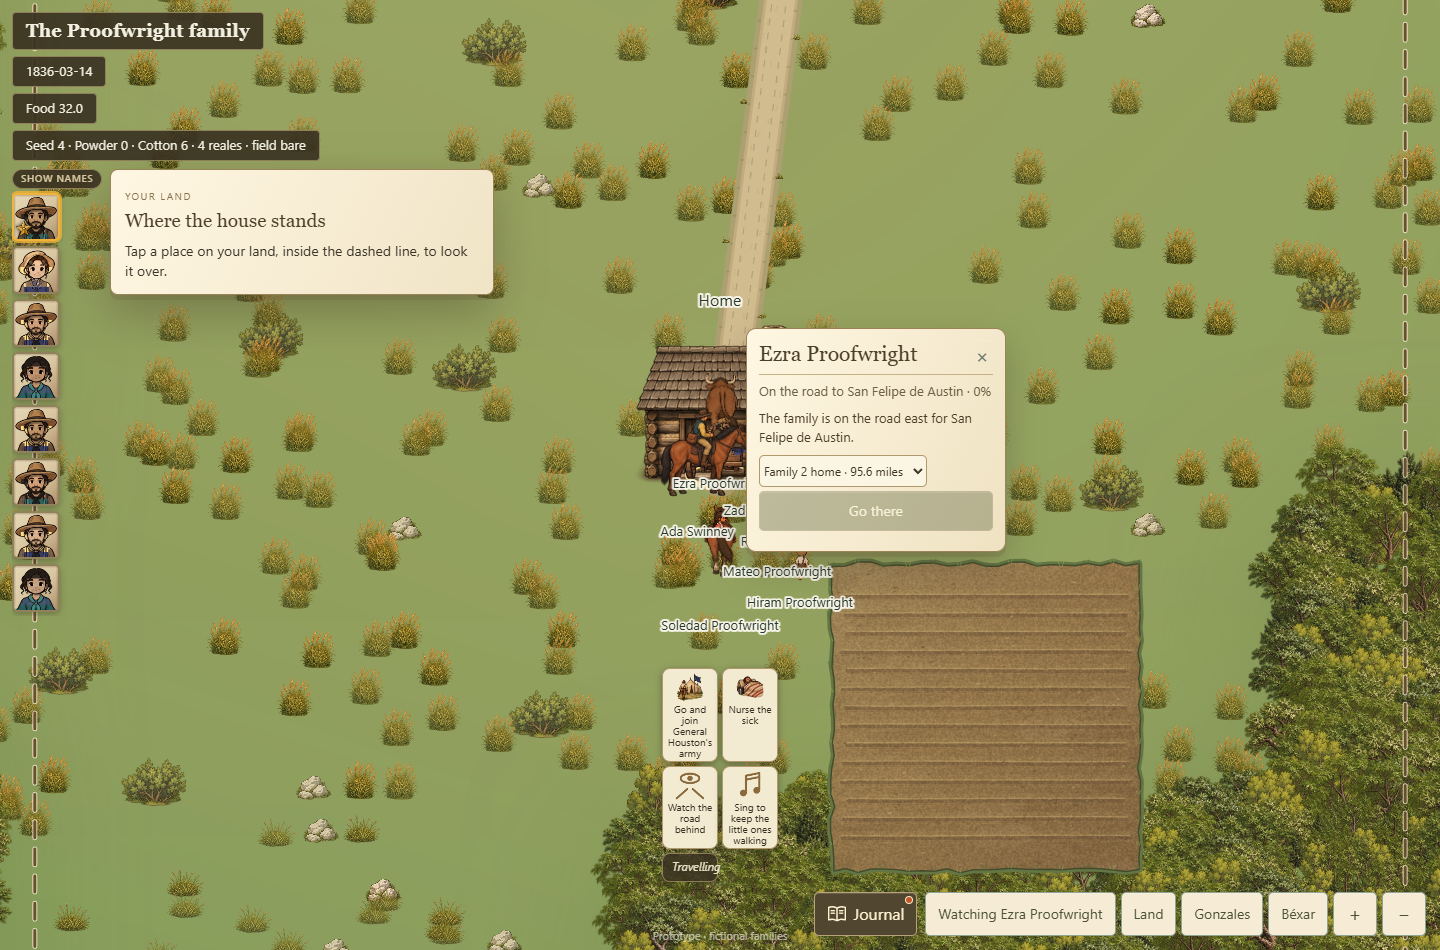
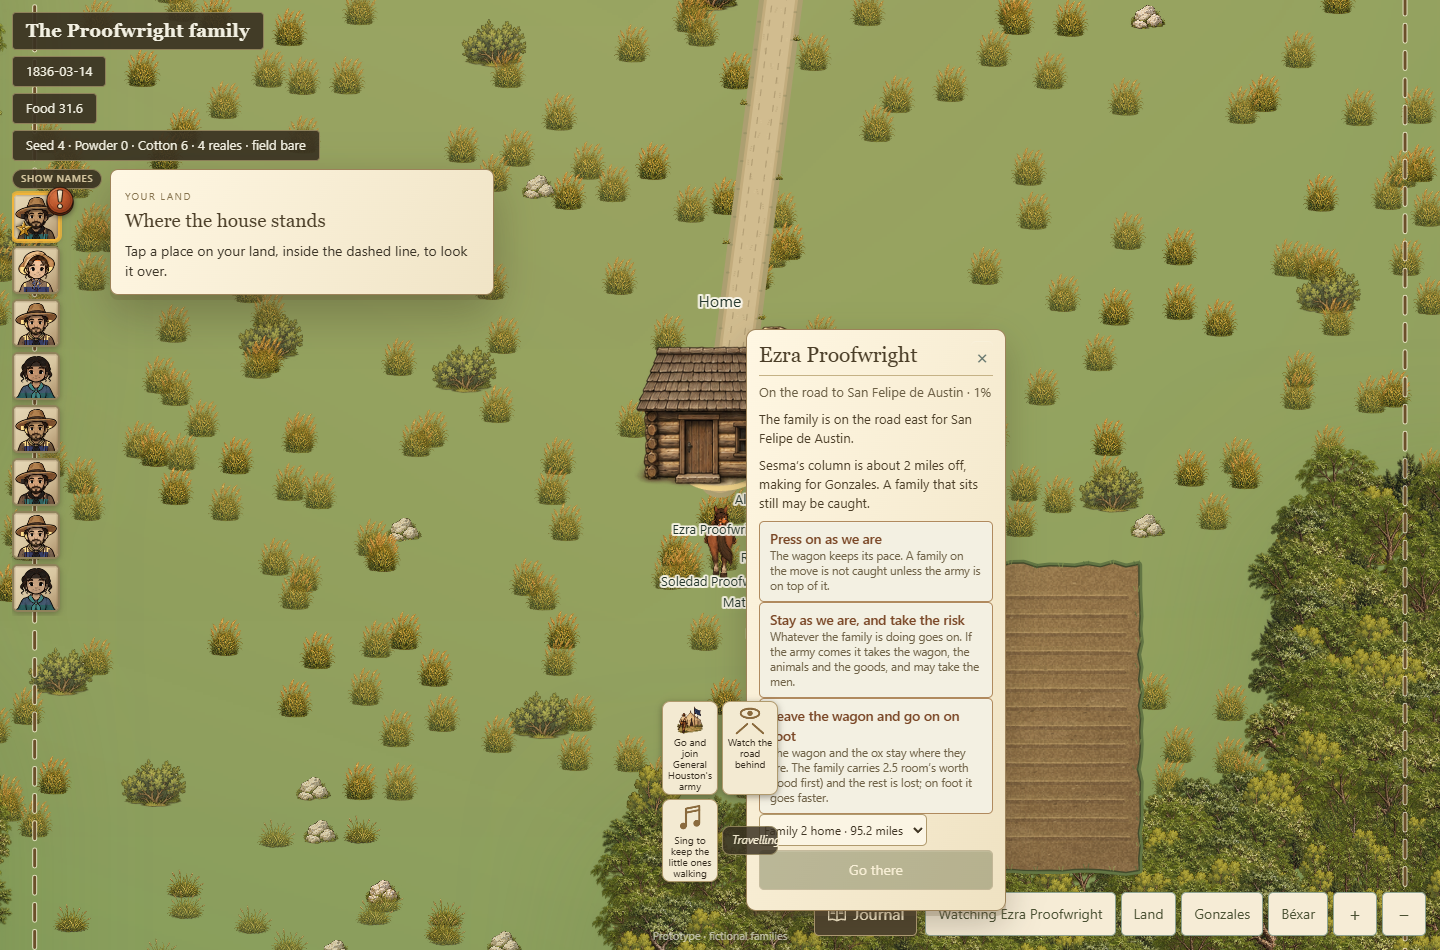
Handoff for the four decisions of 2026-09-27 (not released), with the proofs' records
npm test 1427 passed on the tree merged with origin/main; childhood injections 72 of 72 caught (the
flight-icon injection re-aimed for flee-cow); family-twenty 9 with phones asserted; children 14,
bexar-alarm 9, panels 14, family-panel 17, panel-silence, lesson, scrape 5, mexican-advance 10.
npm run test:family-twenty-injections added.

diff --git a/HANDOFF.md b/HANDOFF.md
@@ -1,5 +1,62 @@
 # Claude handoff — Astra foundation
 
+## Four owner decisions of 2026-09-27: the baby on the hip, one milk cow, Béxar's signs, phones a gate for the panel (worktree branch; not released)
+
+Built on `worktree-agent-a9edddbea550152b5` from main `d710d28`, merged with `origin/main` before finishing. Not pushed, not
+merged to main, not released. Every decision is the owner's, by multiple choice, 2026-09-27.
+
+**1. A woman carrying a baby walks a quarter slower - on foot only** (`FIC-GONZ-630`; docs/CHILDREN.md §6). `hipPace`
+(sim/babies.mjs), called from `beginTravel` after `takeBabyAlong` and before anything led is put on the road: whoever walks with a
+baby on the hip goes at `HIP_PACE` (0.75) of a walker's pace, to town and home again. The owner's clarification, verbatim: "if a
+mother and a child are riding on something, they would go the logical speed of that method of transportation. horse, wagon,
+wouldn't be slowed down by a baby" - so on the horse or with the wagon, cart or carreta nothing changes. Her row: *"On foot with Ana
+on her hip: walking a quarter slower for it."*; riding: *"Ana rides with her, on the horse: no slower for it."* `ceiling:` the
+family walking together on the road east (sim/company.mjs) is not slowed by a mother with a baby in her arms.
+
+**2. One milk cow on the run** (`FIC-GONZ-631`; docs/STOCK.md §8, which it amends; docs/CHILDREN.md §7). *Drive the milk cow
+along* (`flee-cow`, sim/flight-work.mjs), a child's job for seven to fifteen, offered only to a family told to leave that has
+cattle. The family leaves: one cow out of the herd goes (`takeCow`), the rest is left on the range; `MILK_A_DAY` 0.2 food a day on
+the road, at the refuge and home again (`milkCow`); a child of a low roll lets her stray and the day's milk is lost
+(`cowStrayChance`, 0.3 a day at a 1, 0.01 at a 20) - never the cow; taken if overtaken (`overtake` → `loseCow`); home, back into
+the herd (`cowHome`). Drawn a step behind the child (stand-in: the longhorn's frames). **No source for a child driving a milk cow**:
+RECONSTRUCTED. The herd sentence now reads "Nobody drives a herd ahead of an army."
+
+**3. Béxar's warning signs, seen and not explained** (`HIST-TEX-650` new, `-614`; `FIC-GONZ-632`;
+docs/battle-research/surprise-at-bexar.md §9). The town scenes (sim/town-scenes.mjs) now serve a second town: beats carry a `site`
+and a `period`, and `BEXAR_BEATS` are Béxar's four in February 1836 - families packing (Feb 20, 4 p.m.), the town emptying (to the
+23rd, 2 p.m.), fifteen Tejano volunteers riding out on the 21st (five drawn), the fandango the night of the 22nd - each at least
+twelve hours long because the winter's ticks are up to half a day and fall at shifting hours. Seen by a family with somebody in or
+within three miles of Béxar (`near`, as the bell), told once each in its journal through that person; a family elsewhere sees and
+hears nothing; the Host sees all. **Nobody says what it means**: no line, card or journal word names an army, Santa Anna, a march
+or a reason. **Verified, with a correction**: Wikipedia's *Siege of the Alamo* (Hardin p. 121, Petite p. 26) has the fifteen let go
+on the 21st at Seguín's asking to help their families - nothing read says they were Seguín's own company.
+
+**4. Phones a gate again for the family panel** (docs/GATES.md, 2026-09-27). `test:family-twenty`'s six phone checks are asserts
+again with their old thresholds. Fixed: on a phone the work bar is one row that scrolls sideways (public/style.css), and the column's
+height is measured down to the bar's top (`--phone-column`, `fitColumn` in public/app.js). 400×800: panel on top **20%** (was 35;
+under 30 asked), map **48%** below the guided start (was 26; over 40), panel ends 645 of 800, youngest of twenty reachable (was
+not). Phones stay not officially supported elsewhere.
+
+**Evidence** (same computer, headless Chrome; no LAN, district, Chromebook or real-phone claim):
+- `npm test`: **1427 passed, 0 failed** (1420 before; seven new), on the tree merged with `origin/main` (`455ca0b`).
+- New tests, each seen failing alone on its injected regression: `tests/babies.test.mjs` (the hip, 4 injections),
+  `tests/flight-work.test.mjs` (the cow, 3 tests, 10 injections) - `node scripts/childhood-injections.mjs`, **72 of 72 caught, 67
+  alone** ([record](docs/evidence/childhood-injections.json)). Of the five not alone, three were so before; two older baby
+  injections (the only woman of age leaving the baby, or taking it with another woman at home) now also fail the new hip test,
+  which rests on the same carrying. The flight-icon injection was re-aimed for `flee-cow` in the list.
+  `tests/bexar-signs.test.mjs` (3 tests, 7 unit injections) - `node scripts/surprise-injections.mjs unit signs:`.
+- Browser: `test:family-twenty` 9 (phones asserted), with `scripts/family-twenty-phone-injections.mjs` 3 of 3 caught (7 desktop
+  checks pass first each time); `test:children` 14 (the baby on the hip on foot at 0.75 with the row's line; the cow roped, going,
+  on the row and drawn, the herd left one fewer); `test:bexar-alarm` 9 (the four signs to hh-1 on their dates, drawn at Béxar,
+  told in its journal, none saying what they mean, none to hh-2), with three browser injections (24 of 24 in
+  `docs/evidence/surprise-injections.json`); `test:panels` 14, `test:family-panel` 17, `test:panel-silence`, `test:lesson`,
+  `test:scrape` 5 and `test:mexican-advance` 10 pass against the change.
+
+**For the owner.** (a) The baby slows a lone *father* on foot too - the carrying rule was already carried on to him; say if only
+a woman should be. (b) The cow goes at the family's pace; a real cow would hold a family on foot to hers. (c) Béxar's townspeople,
+volunteers and dancers are the colonists' figures until Tejano art lands (docs/ART_REQUESTS.md, request 2026-09-27). (d) Still open
+from docs/CHILDREN.md §9: obedience for ten to fifteen, the idle child in the guided start, how often a baby cries.
+
 ## Integration: the surprise at Béxar, the proofs brought back, the children, the pyres; famous people drawn on the map — 2026-09-27 (worktree branch `worktree-agent-a231238561f3f27b9` from main 6313c81; not released)
 
 Merged in order, every feature kept: `worktree-agent-a757a70ee43238054` (the surprise at Béxar), `worktree-agent-ae6b12e52c66777ca`
@@ -333,7 +390,8 @@ auto and the director give them. Left for the children's own work, which is bein
 
 **Decision for the owner:** `test:family-twenty`'s phone check is now **recorded, not a gate** (phones unsupported; it is
 measured every run and written into the record, and the thresholds are kept for the day phones are supported). Say if it
-should be dropped entirely instead, or made a gate again.
+should be dropped entirely instead, or made a gate again. **Answered 2026-09-27: a gate again**, and the phone layout fixed to
+hold it (the section at the top of this file; docs/GATES.md).
 
 **Injection harnesses re-aimed** (a stale pattern throws; a missed injection is a test gone quiet): art-wiring (three; and
 the ferry, missed because the town scenes also name the flatboat - tests/ferry-art.test.mjs), mounted-wiring (one),
